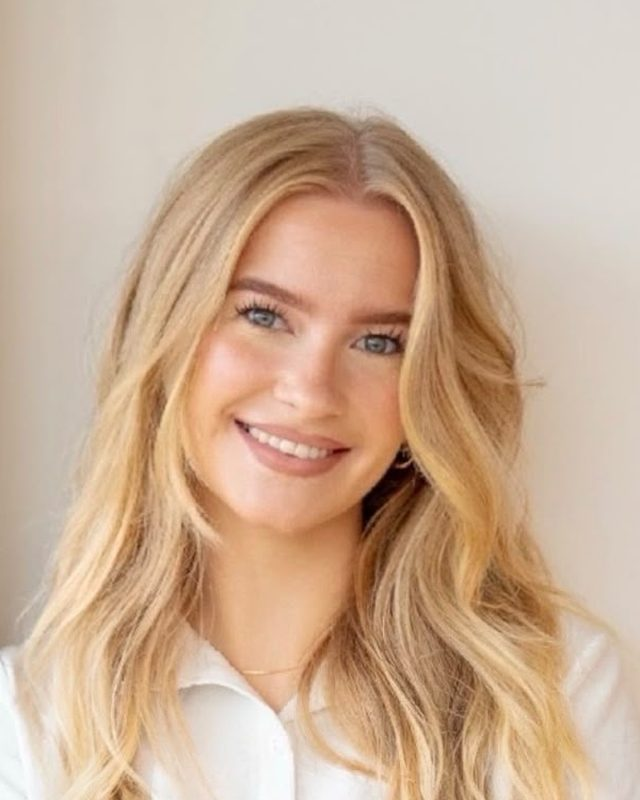
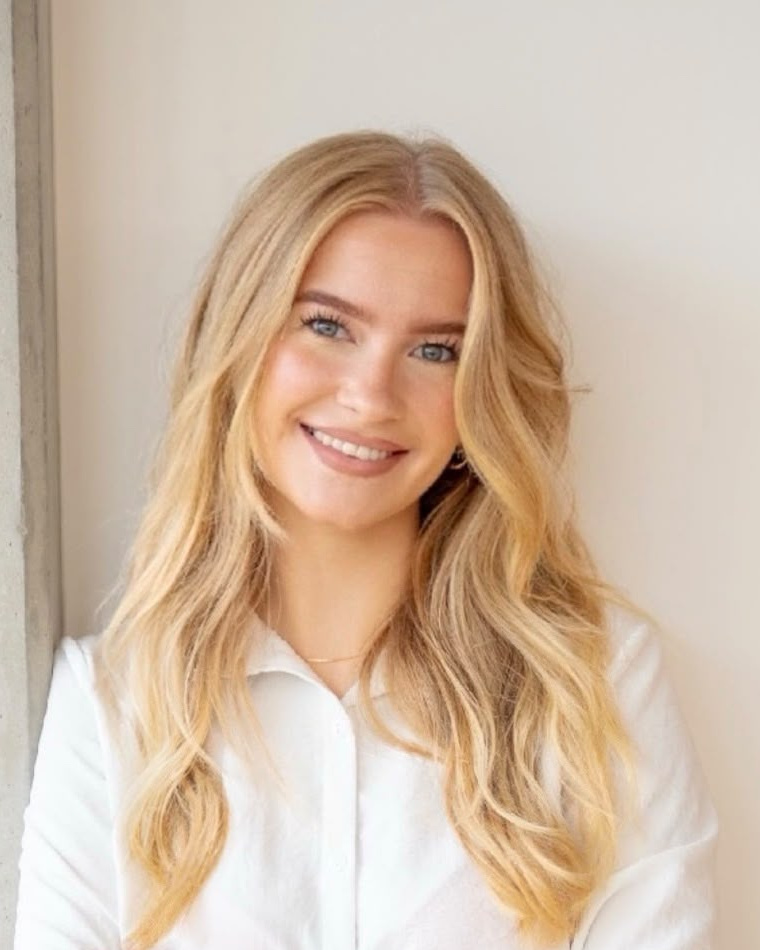
Gründerfotos in voller Qualität
- Zuschnitte aus den Originalen in voller Auflösung, ohne Skalierung (JPEG 95 %, 4:4:4)
- next/image liefert mit Qualität 92 statt 75 aus (images.qualities in next.config.ts)
- Avatare in 2×/3×-Auflösung, kein Unschärfe-Platzhalter mehr

Claude-Session: https://claude.ai/code/session_01FTEuMjp3ca1it2Q3ewXEXW

diff --git a/src/content/team.ts b/src/content/team.ts
@@ -4,7 +4,11 @@ import darell from "@/assets/team/darell-kacou.jpg"
 import magdalenaAvatar from "@/assets/team/magdalena-kayser-avatar.jpg"
 import magdalena from "@/assets/team/magdalena-kayser.jpg"
 
-/** Gründer mit Fotos (Porträt 4:5 für „Über uns“, runder Ausschnitt für den Hero). Reihenfolge wie im Text. */
+/**
+ * Gründer mit Fotos (Porträt 4:5 für „Über uns“, runder Ausschnitt für den Hero). Reihenfolge wie im Text.
+ * Die Dateien sind Zuschnitte der Originale in voller Auflösung (JPEG 95 %, ohne Farbunterabtastung);
+ * verkleinert und ins WebP-Format gebracht wird erst beim Ausliefern durch next/image (Qualität 92).
+ */
 export const team: { name: string; role: string; photo: StaticImageData; avatar: StaticImageData }[] = [
   { name: "Magdalena Kayser", role: "Co-Founder", photo: magdalena, avatar: magdalenaAvatar },
   { name: "Darell Kacou", role: "Co-Founder", photo: darell, avatar: darellAvatar },

diff --git a/src/components/kayco/about-section.tsx b/src/components/kayco/about-section.tsx
@@ -28,7 +28,7 @@ export function AboutSection() {
         <ul className="kay-founders" aria-label="Gründer">
           {team.map((t, i) => (
             <li key={t.name} data-anim={i ? "fr" : "fl"} style={{ "--d": i * 0.12 + "s" } as CSSProperties}>
-              <Image src={t.photo} alt={t.name} sizes="(max-width: 900px) 50vw, 300px" placeholder="blur" />
+              <Image src={t.photo} alt={t.name} sizes="(max-width: 900px) 46vw, 320px" quality={92} />
               <b>{t.name}</b>
               <span>{t.role}</span>
             </li>

diff --git a/src/components/landing/hero.tsx b/src/components/landing/hero.tsx
@@ -78,7 +78,7 @@ export function Hero({ c }: { c: LandingContent }) {
         <p className="k-hero-founders k-in" style={d(0.66)}>
           <span className="k-hero-avs" aria-hidden="true">
             {team.map((t) => (
-              <Image key={t.name} src={t.avatar} alt="" width={46} height={46} priority />
+              <Image key={t.name} src={t.avatar} alt="" width={92} height={92} quality={92} priority />
             ))}
           </span>
           {hero.founders}

diff --git a/next.config.ts b/next.config.ts
@@ -3,6 +3,10 @@ import type { NextConfig } from "next";
 const nextConfig: NextConfig = {
   /* config options here */
   cacheComponents: true,
+  // Fotos (Gründer) mit hoher Qualität ausliefern; 75 bleibt der Standard für alles andere
+  images: {
+    qualities: [75, 92],
+  },
   partialPrefetching: true,
   turbopack: {
     rules: {

diff --git a/docs/relaunch-changelog.md b/docs/relaunch-changelog.md
@@ -6,8 +6,11 @@ Konzept und Designsystem: [`docs/design-system.md`](design-system.md)
 ## Update 7: Gründerfotos, noch kompakter (19.11.2026)
 
 - **Fotos** von Magdalena Kayser und Darell Kacou in den Gründer-Karten („Über uns“, Porträt 4:5) und als
-  runde Avatare im Hero (wie die Avatar-Reihe bei om-vantage). Zugeschnitten und komprimiert
-  (`src/assets/team/`, je ca. 50 KB bzw. 8 KB), über `next/image` mit Unschärfe-Platzhalter.
+  runde Avatare im Hero (wie die Avatar-Reihe bei om-vantage). Nachbesserung nach Rückmeldung („sehen
+  komprimiert aus“): Zuschnitte jetzt in Originalauflösung ohne Skalierung (JPEG 95 %, ohne
+  Farbunterabtastung) in `src/assets/team/`; `next/image` verkleinert erst beim Ausliefern, mit Qualität 92
+  statt 75 (`images.qualities: [75, 92]` in `next.config.ts`), Avatare in 2×/3×-Auflösung, kein
+  Unschärfe-Platzhalter. Ausgeliefert z. B. 640 px WebP (51–79 KB) für die Karten.
 - **Abschnitt „Preise“ entfernt:** Die Preise stehen weiter in der FAQ („Was kostet KAYCO?“), in den
   Ablauf-Schritten (einmalig 300 € / 75 € pro Termin), in der Leistungsleiste und in der Abschluss-Box.
 - **Abschnitt „Ergebnisse“ entfernt:** 80 Neukunden und 3× Umsatz stehen jetzt als Belege im Hero – an der
@@ -182,7 +185,7 @@ Maschineller Abgleich der gerenderten Seite vorher/nachher (Texte je Abschnitt, 
 | Lighthouse Startseite mobil | Performance 96 (Update 6: 92–94, Update 4: 93, Update 3: 91, Update 2: 85–88) · Barrierefreiheit 100 · Best Practices 100 · SEO 100 (gemessener LCP 0,3 s; der simulierte Wert 2,6 s entsteht durch die zusätzliche Stil-/Animationsarbeit beim ersten Aufbau) |
 | Lighthouse Startseite Desktop | Performance 100 · Barrierefreiheit 100 · Best Practices 100 · SEO 100 |
 | Lighthouse Impressum mobil / Desktop | 97 / 100 · alle anderen Kategorien 100 |
-| Übertragene Datenmenge Startseite | 252 KB mobil inkl. Fotos (Update 1: 257 KB, vor dem Relaunch 499 KB) |
+| Übertragene Datenmenge Startseite | 274 KB mobil inkl. Fotos in hoher Qualität (Update 1: 257 KB, vor dem Relaunch 499 KB) |
 | Ruckelnde Frames beim Scrollen (Handy 4× gedrosselt / Desktop) | 3–4 % / 2 % (ohne Pausieren außerhalb des Bildes wären es 15–18 % gewesen) |
 
 Vergleich: vor dem Relaunch Lighthouse mobil 80–83 / 499 KB; nach Update 1 mobil 90–93 / 257 KB.
